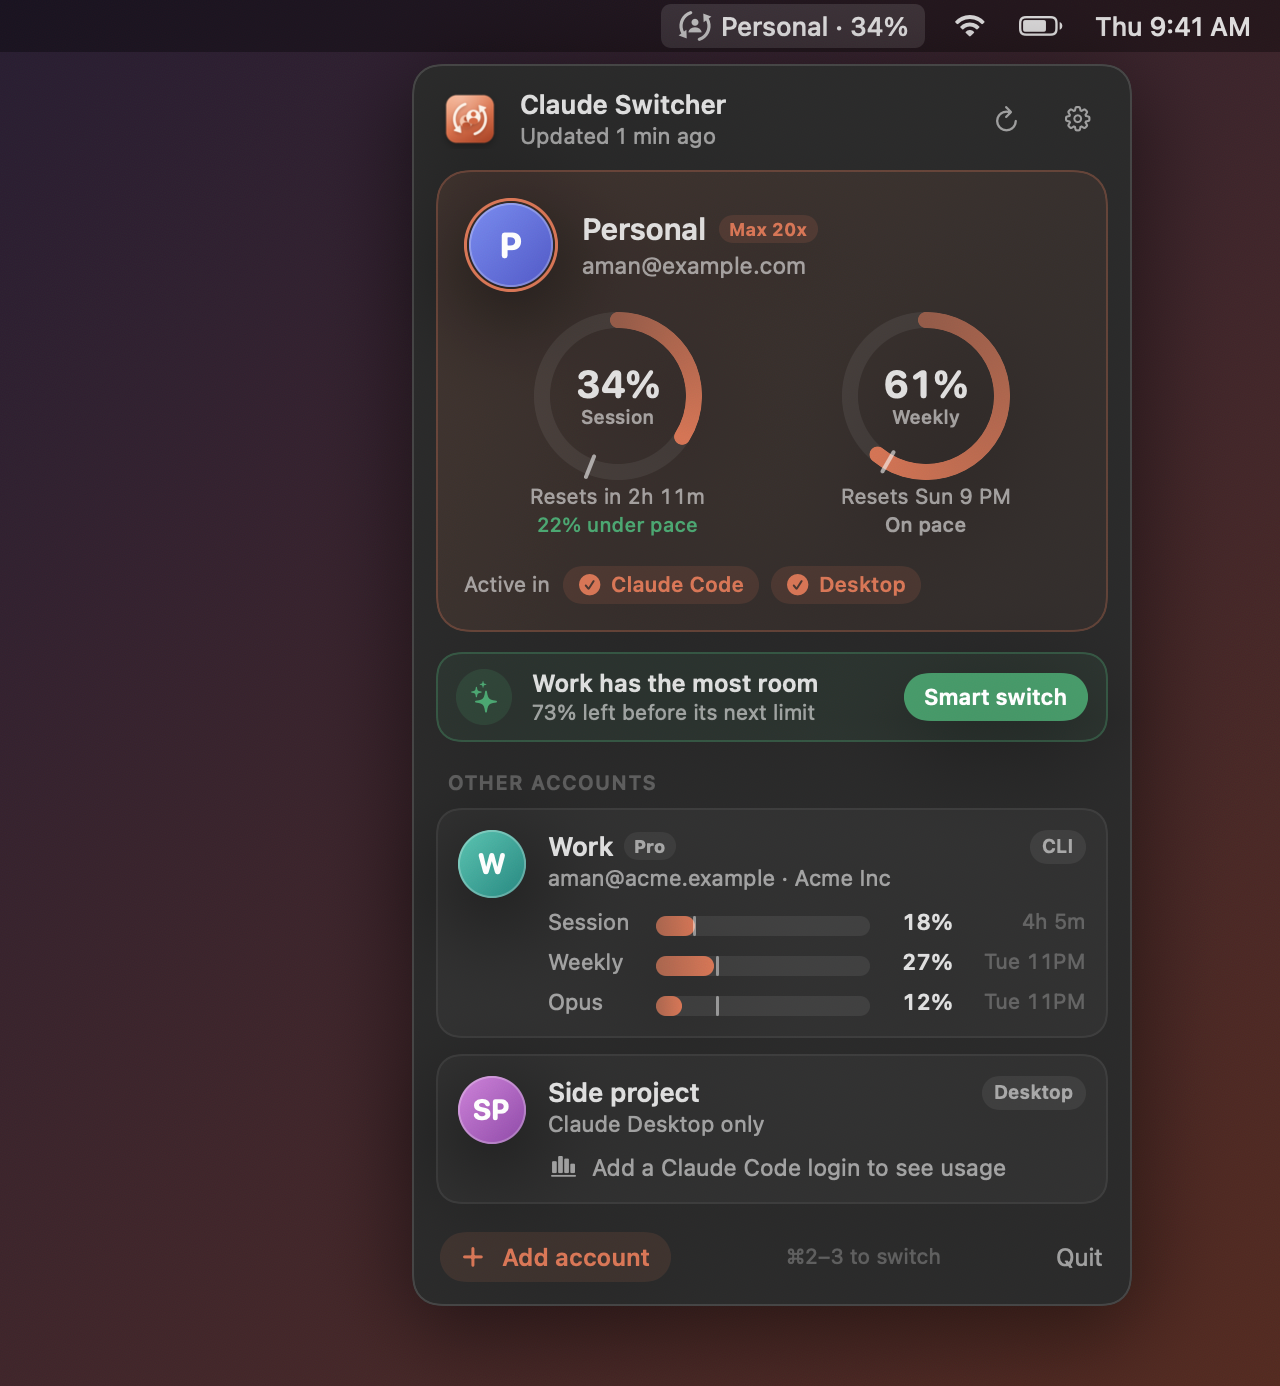
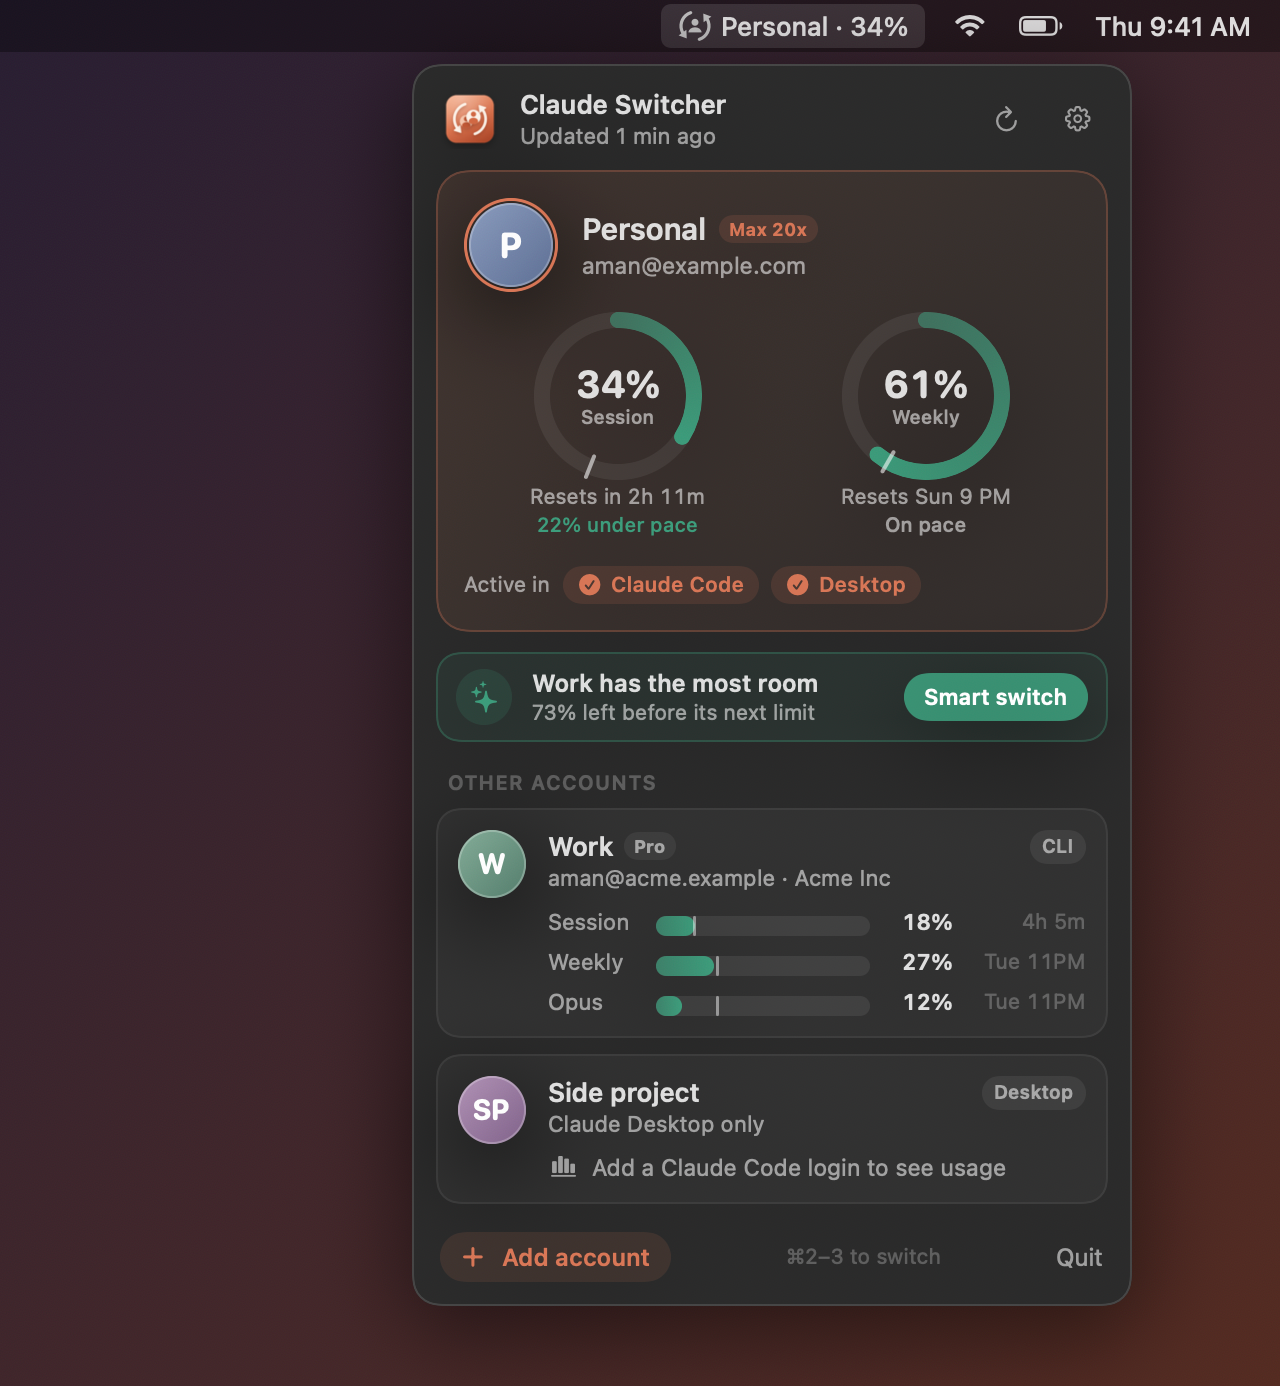
style(ui): unify the colour palette
Clay marks identity (active account, badges, actions); green/amber/red
mark usage health; avatars use muted tones.

diff --git a/Sources/Views.swift b/Sources/Views.swift
@@ -2,13 +2,15 @@ import SwiftUI
 
 extension Color {
     static let brand = Color(red: 0.851, green: 0.467, blue: 0.341)
-    static let good = Color(red: 0.30, green: 0.66, blue: 0.45)
-    static let warn = Color(red: 0.95, green: 0.62, blue: 0.20)
-    static let bad = Color(red: 0.89, green: 0.29, blue: 0.24)
+    // Clay (brand) marks identity: the active account, badges, primary actions.
+    // Green / amber / red mark usage health only.
+    static let good = Color(red: 0.24, green: 0.62, blue: 0.49)
+    static let warn = Color(red: 0.89, green: 0.64, blue: 0.23)
+    static let bad = Color(red: 0.85, green: 0.33, blue: 0.29)
 
-    /// Brand until 70%, then amber, then red from 90%.
+    /// Green until 70%, then amber, then red from 90%.
     static func usage(_ fraction: Double) -> Color {
-        fraction >= 0.9 ? .bad : fraction >= 0.7 ? .warn : .brand
+        fraction >= 0.9 ? .bad : fraction >= 0.7 ? .warn : .good
     }
 }
 
@@ -574,12 +576,13 @@ struct Avatar: View {
     let size: CGFloat
     let ring: Bool
 
+    // Muted, warm-leaning tones so avatars sit quietly next to the clay accent.
     private static let palettes: [(Color, Color)] = [
-        (Color(red: 0.95, green: 0.60, blue: 0.45), Color(red: 0.80, green: 0.36, blue: 0.24)),
-        (Color(red: 0.49, green: 0.56, blue: 0.95), Color(red: 0.33, green: 0.36, blue: 0.80)),
-        (Color(red: 0.36, green: 0.78, blue: 0.70), Color(red: 0.16, green: 0.55, blue: 0.52)),
-        (Color(red: 0.82, green: 0.52, blue: 0.86), Color(red: 0.58, green: 0.30, blue: 0.68)),
-        (Color(red: 0.93, green: 0.74, blue: 0.36), Color(red: 0.78, green: 0.52, blue: 0.16)),
+        (Color(red: 0.82, green: 0.58, blue: 0.47), Color(red: 0.66, green: 0.40, blue: 0.31)), // clay
+        (Color(red: 0.55, green: 0.62, blue: 0.75), Color(red: 0.38, green: 0.45, blue: 0.60)), // slate
+        (Color(red: 0.52, green: 0.68, blue: 0.60), Color(red: 0.34, green: 0.51, blue: 0.44)), // sage
+        (Color(red: 0.70, green: 0.58, blue: 0.72), Color(red: 0.52, green: 0.40, blue: 0.56)), // plum
+        (Color(red: 0.80, green: 0.69, blue: 0.48), Color(red: 0.62, green: 0.51, blue: 0.31)), // sand
     ]
 
     var body: some View {
